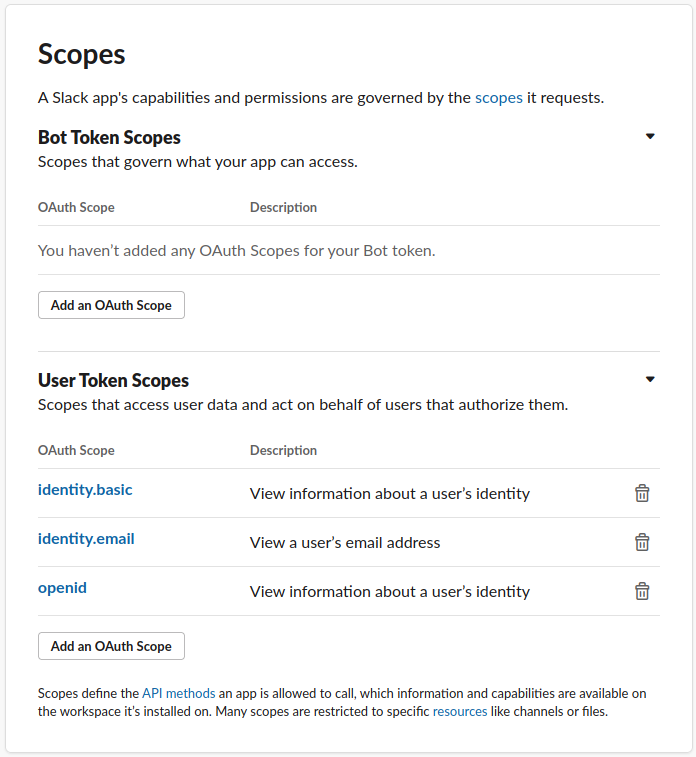
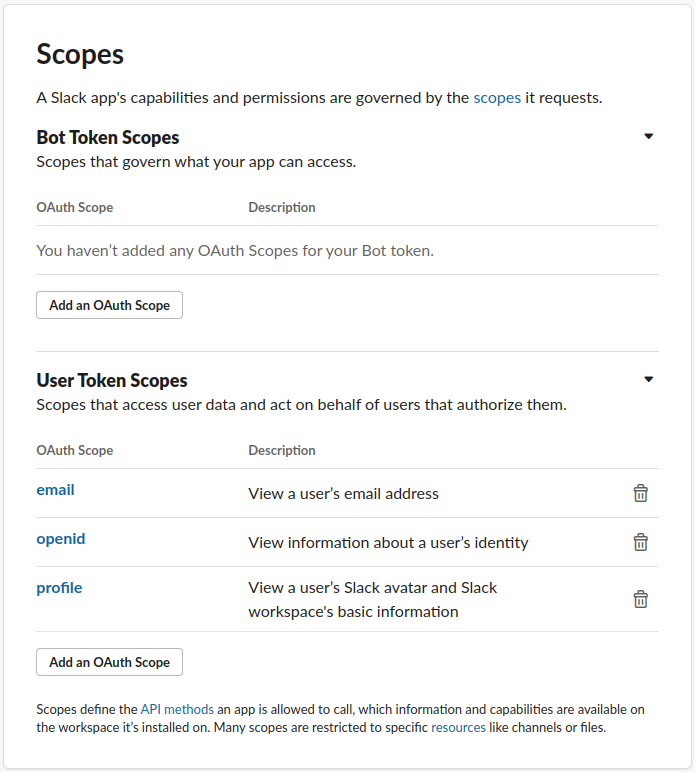
Updated slack scope screenshot

diff --git a/docs/Single Sign On/slack.md b/docs/Single Sign On/slack.md
@@ -35,7 +35,7 @@ Provide the name of the identity provider and choose IdP type as `Slack` from th
 
 For client identifier & secret, provide the `client-id` & `client-secret` of the Slack app created earlier.
 
-Under **Scopes** provide `identity.basic` and `identity.email`
+Under **Scopes** provide `email, openid, profile`
 
 For **Issuer URL**, provide this url: `https://slack.com`
 
